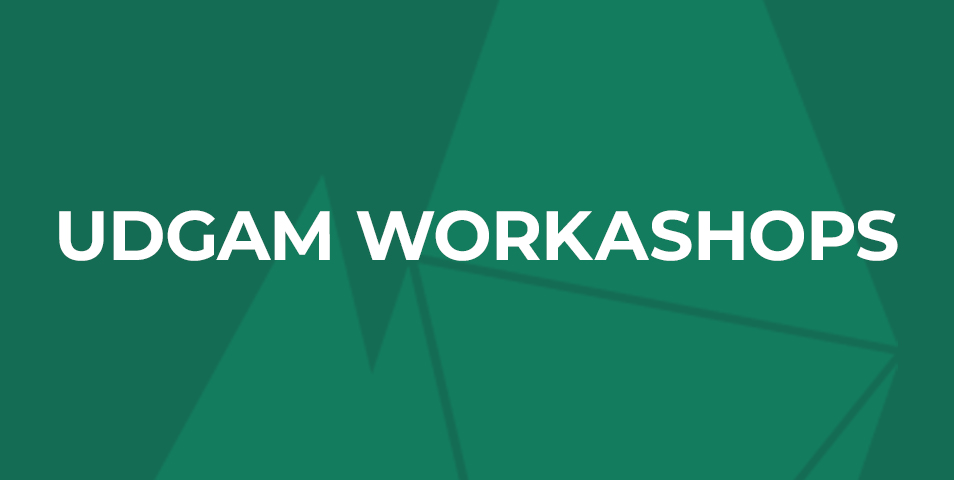
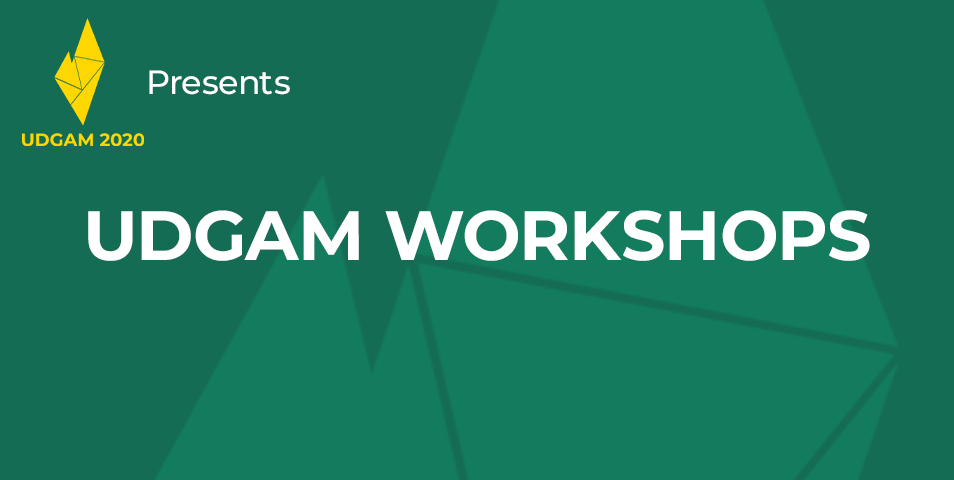
Illustrations added

diff --git a/index.html b/index.html
@@ -158,7 +158,7 @@
 
 
                 <div class=" row gap-y ">
-                    <div class=" col-12 col-lg-4 d-flex align-items-stretch " data-aos=" fade-up " data-aos-duration=" 250 " data-aos-delay=" 00 ">
+                    <div class=" col-12 col-lg-4 d-flex align-items-stretch " data-aos="fade-up" data-aos-duration="150" data-aos-delay="00">
                         <div class=" card hover-shadow-4 shadow-2 ">
                             <img class=" card-img-top " src=" images/pic07.jpg " alt=" Card image cap ">
 
@@ -174,7 +174,7 @@
                             </div>
                         </div>
                     </div>
-                    <div class=" col-12 col-lg-4 d-flex align-items-stretch " data-aos=" fade-up " data-aos-duration=" 250 " data-aos-delay=" 50 ">
+                    <div class=" col-12 col-lg-4 d-flex align-items-stretch " data-aos="fade-up" data-aos-duration="150" data-aos-delay="100">
                         <div class=" card hover-shadow-4 shadow-2 ">
                             <img class=" card-img-top " src=" images/pic16.jpg " alt=" Card image cap ">
 
@@ -191,7 +191,7 @@
                             </div>
                         </div>
                     </div>
-                    <div class=" col-12 col-lg-4 d-flex align-items-stretch " data-aos=" fade-up " data-aos-duration=" 250 " data-aos-delay=" 100 ">
+                    <div class=" col-12 col-lg-4 d-flex align-items-stretch " data-aos="fade-up" data-aos-duration="150" data-aos-delay="200">
                         <div class=" card hover-shadow-4 shadow-2 ">
                             <img class=" card-img-top " src=" images/pic11.jpg " alt=" Card image cap ">
 
@@ -206,7 +206,7 @@
                             </div>
                         </div>
                     </div>
-                    <div class=" col-12 col-lg-4 d-flex align-items-stretch " data-aos=" fade-up " data-aos-duration=" 250 " data-aos-delay=" 00 ">
+                    <div class=" col-12 col-lg-4 d-flex align-items-stretch " data-aos="fade-up" data-aos-duration="150" data-aos-delay="00">
                         <div class=" card hover-shadow-4 shadow-2 ">
                             <img class=" card-img-top " src=" images/pic01.jpg " alt=" Card image cap ">
 
@@ -222,7 +222,7 @@
                             </div>
                         </div>
                     </div>
-                    <div class=" col-12 col-lg-4 d-flex align-items-stretch " data-aos=" fade-up " data-aos-duration=" 250 " data-aos-delay=" 50 ">
+                    <div class=" col-12 col-lg-4 d-flex align-items-stretch " data-aos="fade-up" data-aos-duration="150" data-aos-delay="100">
                         <div class=" card hover-shadow-4 shadow-2 ">
                             <img class=" card-img-top " src=" images/pic02.jpg " alt=" Card image cap ">
 
@@ -238,7 +238,7 @@
                             </div>
                         </div>
                     </div>
-                    <div class=" col-12 col-lg-4 d-flex align-items-stretch " data-aos=" fade-up " data-aos-duration=" 250 " data-aos-delay=" 100 ">
+                    <div class=" col-12 col-lg-4 d-flex align-items-stretch " data-aos="fade-up" data-aos-duration="150" data-aos-delay="200">
                         <div class=" card hover-shadow-4 shadow-2 ">
                             <img class=" card-img-top " src=" images/pmx.jpg " alt=" Card image cap ">
 
@@ -319,13 +319,13 @@
         </div>
     </section> -->
         <!-- Contact Form -->
-        <section id="contactus" class=" section bg-secondary " style=" background-image: url(images/contactus.jpg); ">
+        <section id="contactus" class="section bg-secondary" data-overlay="7" style=" background-image: url(images/contact_us.svg); ">
             <div class=" container ">
 
                 <header class=" section-header ">
-                    <h2 class=" display-3 fw-500 text-center text-white ">Contact Us</h2>
+                    <h2 class="display-3 fw-500 text-center text-white">Contact Us</h2>
                 </header>
-                <form class=" input-border col-11 col-md-8 mx-auto section-dialog bg-gray p-5 p-md-7 " method=" POST " action=" http://formspree.io/udgam.iitg@gmail.com ">
+                <form class="input-glass col-11 col-md-8 mx-auto p-5 p-md-7" method="POST" action="http://formspree.io/udgam.iitg@gmail.com">
                     <div class="form-group">
                         <input class="form-control" type="text" name="name" id="name" placeholder="Name" />
                     </div>
@@ -349,43 +349,15 @@
         </section>
 
 
-        <!-- <section id=" three " class=" wrapper style2 ">
-            <div class=" inner ">
-                <div class=" box ">
-                    <div class=" content ">
-                        <header class=" align-center ">
-                            <h2>Contact Us</h2>
-                        </header>
-                        <form method=" POST " action=" http://formspree.io/udgam.iitg@gmail.com ">
-                            <div class=" row uniform ">
-                                <div class=" 6u 12u$(xsmall) ">
-                                    <input type=" text " name=" name " id=" name " value=" " placeholder=" Name " />
-                                </div>
-                                <div class=" 6u$ 12u$(xsmall) ">
-                                    <input type=" email " name=" email " id=" email " value=" " placeholder=" Email " />
-                                </div>
-                                <div class=" 12u$ ">
-                                    <textarea name=" message " id=" message " placeholder=" Enter your message " rows=" 6 "></textarea>
-                                </div>
-                                <div class=" 12u$ ">
-                                    <ul class=" actions ">
-                                        <li><input type=" submit " value=" Send Message " /></li>
-                                        <li><input type=" reset " value=" Reset " class=" alt " /></li>
-                                    </ul>
-                                </div>
-                            </div>
-                        </form>
-                    </div>
-                </div>
-            </div>
-        </section> -->
+
     </main>
     <!-- Footer -->
     <footer class=" footer " style=" background-color: #0c0032; ">
         <div class=" container text-center ">
 
             <div class=" social social-sm social-bg-brand social-cycling ">
-                <a class=" social-twitter " href=" https://twitter.com/ecelliitg "><i class=" fa fa-twitter "></i></a>
+                <a class=" social-twitter " href=" https://twitter.com/ecelliitg "><i
+                            class=" fa fa-twitter "></i></a>
                 <a class=" social-facebook " href=" https://www.facebook.com/ecell.iitg/ "><i
                             class=" fa fa-facebook "></i></a>
                 <a href=" mailto:edc@iitg.ac.in "><i class=" fa fa-envelope "></i></a>

diff --git a/workshops.html b/workshops.html
@@ -75,7 +75,7 @@
     </nav>
 
     <!-- One -->
-    <header class="header text-white" style="background-image: url(images/workshop.jpg);" data-overlay="6">
+    <header class="header text-white" style="background-image: url(images/workshop.png);" data-overlay="6">
         <div class="container text-center">
 
             <div class="row">
@@ -93,7 +93,7 @@
     <section class="section">
         <div class="container">
             <div class="text-center mb-7">
-                <img src="images/pic15.jpg" alt="" />
+                <img src="images/pic16.jpg" alt="" />
             </div>
             <div class="container section-dialog">
                 <h2 class="text-center display-4 pb-0 fw-400">About</h2>

diff --git a/team_page.html b/team_page.html
@@ -74,7 +74,7 @@
 
         </div>
     </nav>
-    <header class="header text-white" style="background-image: url(images/team.jpg);" data-overlay="6">
+    <header class="header text-white" style="background-image: url(images/team.png);" data-overlay="6">
         <div class="container text-center">
 
             <div class="row">

diff --git a/intern.html b/intern.html
@@ -77,7 +77,7 @@
 
 
     <!-- One -->
-    <header class="header text-white" style="background-image: url(images/workshop.jpg);" data-overlay="6">
+    <header class="header text-white" style="background-image: url(images/intern.png);" data-overlay="6">
         <div class="container text-center">
 
             <div class="row">

diff --git a/speakers.html b/speakers.html
@@ -76,7 +76,7 @@
 
 
     <!-- One -->
-    <header class="header text-white" style="background-image: url(images/speaker.jpg);" data-overlay="6">
+    <header class="header text-white" style="background-image: url(images/speaker.png);" data-overlay="6">
         <div class="container text-center">
 
             <div class="row">

diff --git a/sponsors.html b/sponsors.html
@@ -76,7 +76,7 @@
 
 
     <!-- One -->
-    <header class="header text-white" style="background-image: url(images/sponsor.jpg);" data-overlay="6">
+    <header class="header text-white" style="background-image: url(images/sponsor.png);" data-overlay="6">
         <div class="container text-center">
 
             <div class="row">

diff --git a/disrupt.html b/disrupt.html
@@ -76,7 +76,7 @@
 
 
     <!-- One -->
-    <div class="header text-white" style="background-image: url(images/disrupt.jpg);" data-overlay="6">
+    <div class="header text-white" style="background-image: url(images/disrupt.png);" data-overlay="6">
         <div class="container text-center">
 
             <div class="row">
